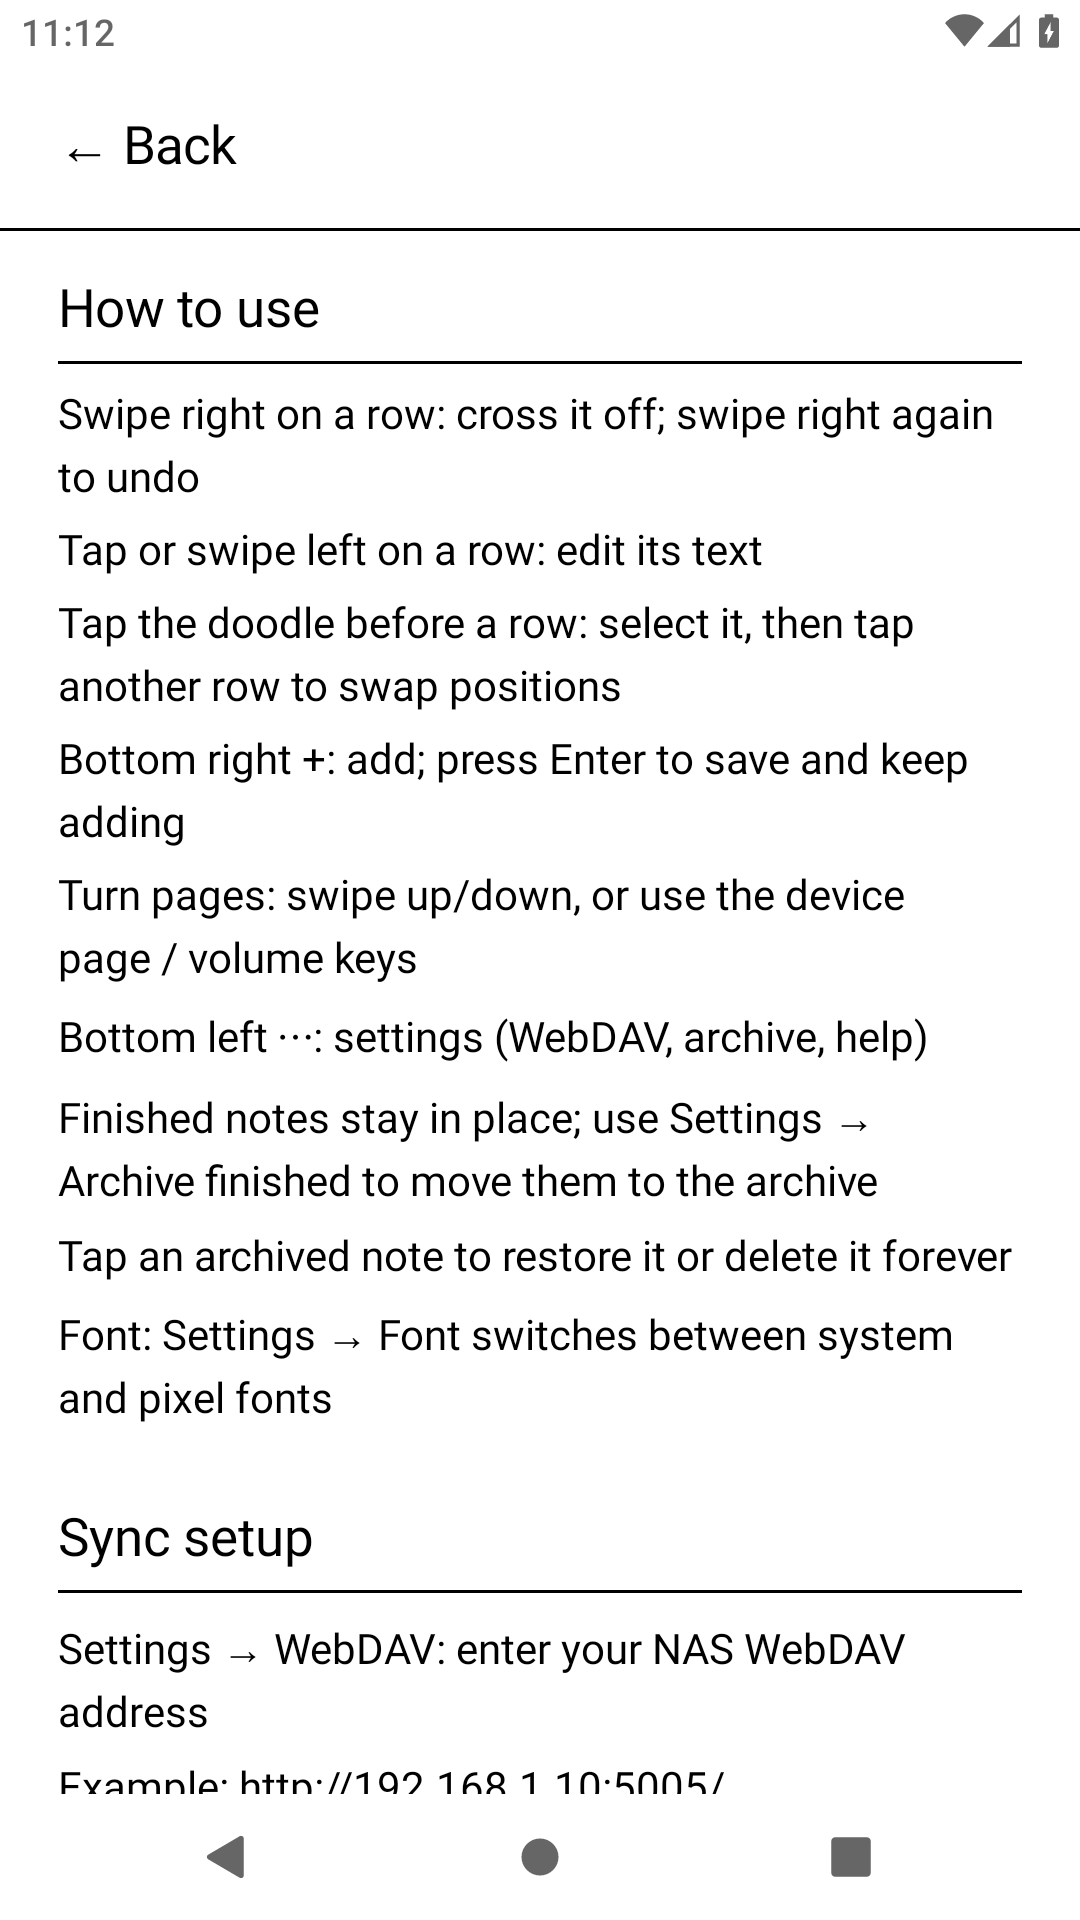
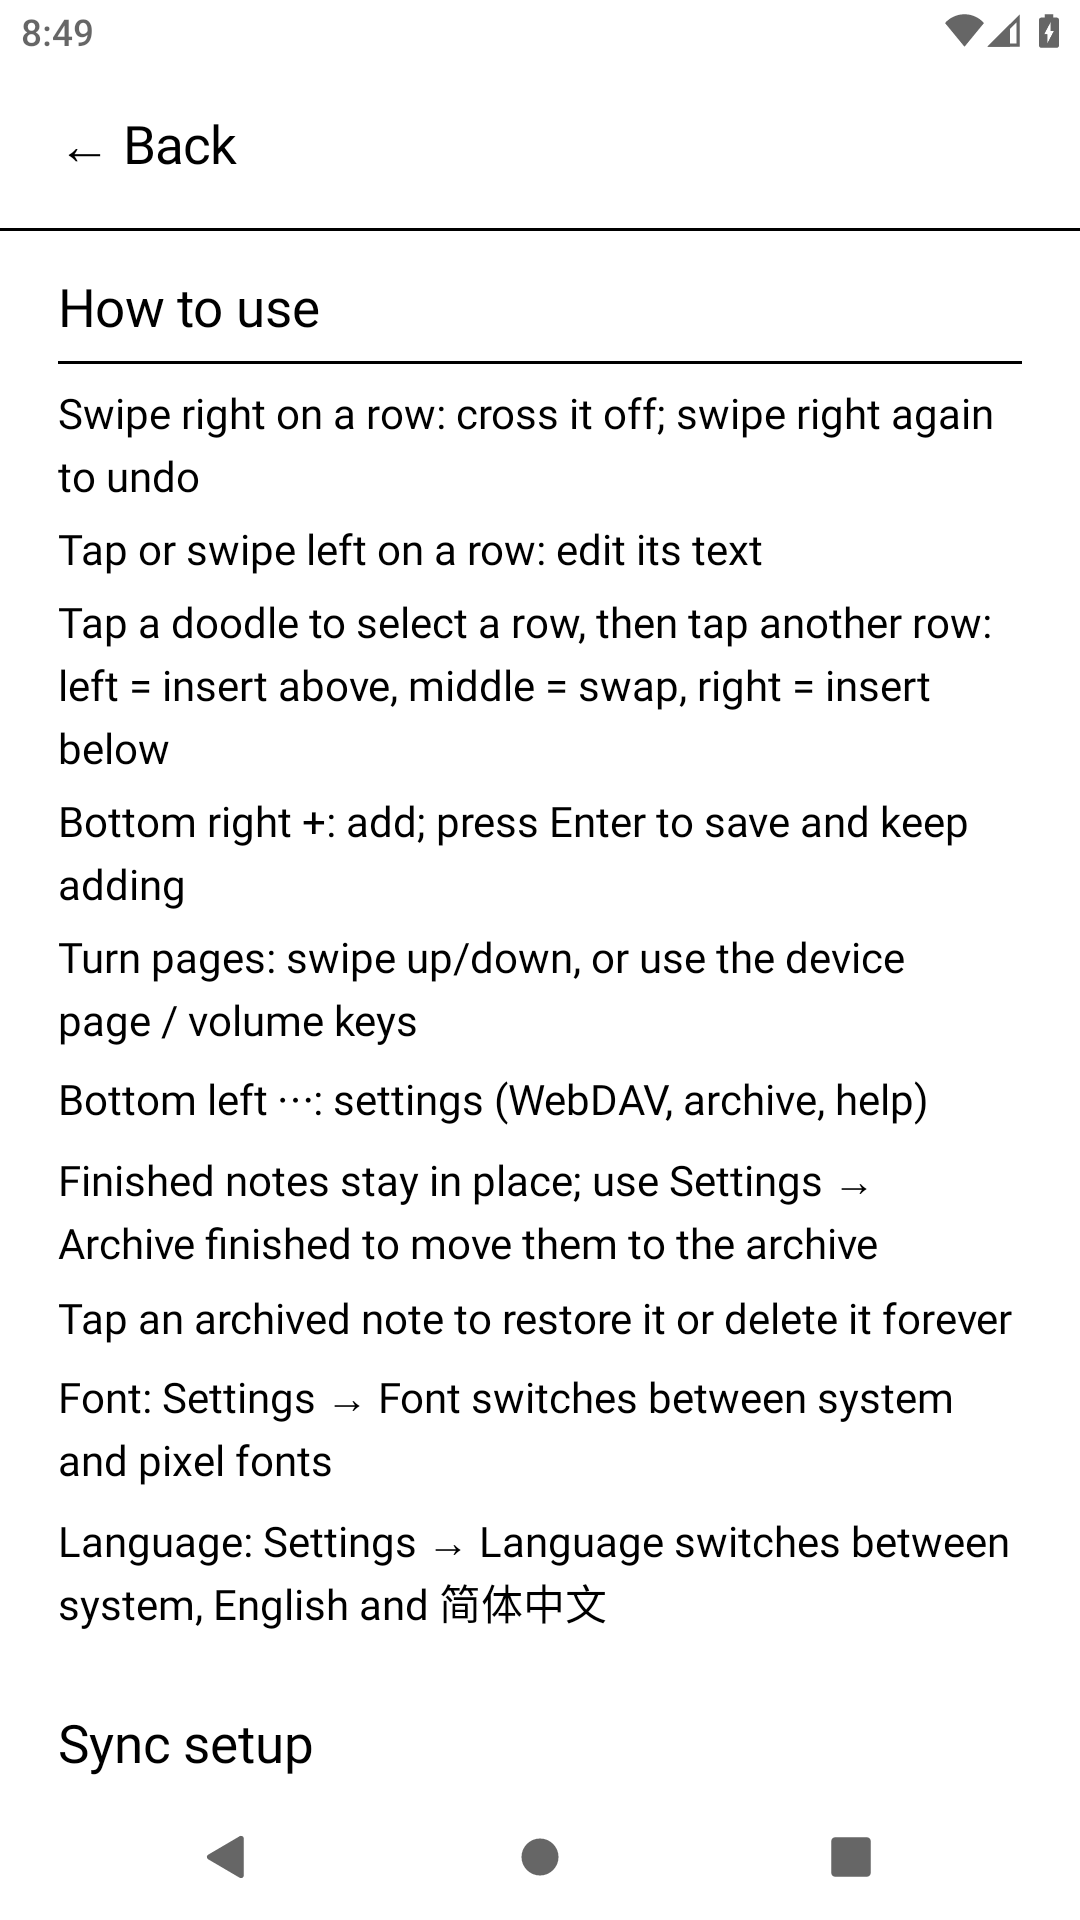
feat: 选中后按行三等分上插/交换/下插（v0.13.0）

diff --git a/android/app/src/main/java/com/einkmemo/app/MainScreen.kt b/android/app/src/main/java/com/einkmemo/app/MainScreen.kt
@@ -64,13 +64,18 @@ fun MainScreen(store: MemoStore) {
                             fontSp = fontSp,
                             showDivider = index < pageItems.lastIndex,
                             selected = store.swapId == item.id,
+                            selectionActive = store.swapId != null,
                             onTap = {
                                 store.dismissHint()
-                                store.tapRow(item.id)
+                                store.openEdit(item.id)
                             },
                             onIconTap = {
                                 store.dismissHint()
                                 store.tapDoodle(item.id)
+                            },
+                            onZoneTap = { zone ->
+                                store.dismissHint()
+                                store.tapRowZone(item.id, zone)
                             },
                             onSwipeRight = {
                                 store.dismissHint()
@@ -107,8 +112,10 @@ private fun NoteRow(
     fontSp: TextUnit,
     showDivider: Boolean,
     selected: Boolean,
+    selectionActive: Boolean,
     onTap: () -> Unit,
     onIconTap: () -> Unit,
+    onZoneTap: (DropZone) -> Unit,
     onSwipeRight: () -> Unit,
     onSwipeLeft: () -> Unit,
     onVerticalSwipe: (Float) -> Unit,
@@ -140,14 +147,18 @@ private fun NoteRow(
             .fillMaxWidth()
             .height(rowHeight)
             .background(if (selected) InkBlack else InkWhite)
-            .pointerInput(item.id, selected, iconHitPx) {
+            .pointerInput(item.id, selected, selectionActive, iconHitPx) {
                 detectRowGestures(
                     onTap = { pos ->
-                        if (pos.x <= iconHitPx) onIconTap() else onTap()
+                        when {
+                            selectionActive -> onZoneTap(zoneOf(pos.x, size.width))
+                            pos.x <= iconHitPx -> onIconTap()
+                            else -> onTap()
+                        }
                     },
-                    onSwipeRight = { if (!selected) onSwipeRight() },
-                    onSwipeLeft = { if (!selected) onSwipeLeft() },
-                    onVerticalSwipe = { dy -> if (!selected) onVerticalSwipe(dy) },
+                    onSwipeRight = { if (!selected && !selectionActive) onSwipeRight() },
+                    onSwipeLeft = { if (!selected && !selectionActive) onSwipeLeft() },
+                    onVerticalSwipe = { dy -> if (!selected && !selectionActive) onVerticalSwipe(dy) },
                 )
             }
     ) {
@@ -197,4 +208,10 @@ private fun NoteRow(
             )
         }
     }
+}
+
+private fun zoneOf(x: Float, width: Int): DropZone = when {
+    x < width / 3f -> DropZone.Above
+    x < width * 2f / 3f -> DropZone.Swap
+    else -> DropZone.Below
 }

diff --git a/android/app/src/main/java/com/einkmemo/app/MemoStore.kt b/android/app/src/main/java/com/einkmemo/app/MemoStore.kt
@@ -48,6 +48,8 @@ enum class FontMode { System, Pixel }
 
 enum class LanguageMode { System, English, Chinese }
 
+enum class DropZone { Above, Swap, Below }
+
 enum class EditMode { Add, Edit }
 
 data class Editing(val mode: EditMode, val id: String? = null)
@@ -218,28 +220,39 @@ class MemoStore(context: Context) {
         swapId = null
     }
 
-    /** 点条目前的像素小图：选中 / 再点取消 / 已选中时点别的条目则交换 */
+    /** 点条目前的像素小图：选中 / 再点取消 */
     fun tapDoodle(id: String) {
-        val current = swapId
-        when {
-            current == null -> swapId = id
-            current == id -> swapId = null
-            else -> {
-                swapItems(current, id)
-                swapId = null
-            }
-        }
+        swapId = if (swapId == id) null else id
     }
 
-    /** 点条目正文：未选中时编辑；选中时点另一条交换位置 */
-    fun tapRow(id: String) {
-        val current = swapId
-        if (current == null) {
-            openEdit(id)
-        } else {
-            if (current != id) swapItems(current, id)
+    /** 选中后点另一条：左侧三分之一上插、中间交换、右侧三分之一下插 */
+    fun tapRowZone(targetId: String, zone: DropZone) {
+        val moving = swapId ?: return
+        if (moving == targetId) {
             swapId = null
+            return
         }
+        when (zone) {
+            DropZone.Swap -> swapItems(moving, targetId)
+            DropZone.Above -> moveItem(moving, targetId, insertAfter = false)
+            DropZone.Below -> moveItem(moving, targetId, insertAfter = true)
+        }
+        swapId = null
+    }
+
+    private fun moveItem(movingId: String, targetId: String, insertAfter: Boolean) {
+        val from = items.indexOfFirst { it.id == movingId }
+        val target = items.indexOfFirst { it.id == targetId }
+        if (from < 0 || target < 0 || from == target) return
+        val now = System.currentTimeMillis()
+        val list = items.toMutableList()
+        val moving = list.removeAt(from)
+        var index = if (insertAfter) target + 1 else target
+        if (from < index) index -= 1
+        index = index.coerceIn(0, list.size)
+        list.add(index, moving.copy(updatedAt = now))
+        items = list
+        bumpRevision()
     }
 
     private fun swapItems(aId: String, bId: String) {

diff --git a/android/app/src/main/java/com/einkmemo/app/Components.kt b/android/app/src/main/java/com/einkmemo/app/Components.kt
@@ -493,6 +493,7 @@ fun HintOverlay() {
             InkText(stringResource(R.string.hint_swipe_off), 20.sp)
             InkText(stringResource(R.string.hint_tap_edit), 20.sp)
             InkText(stringResource(R.string.hint_swap), 20.sp)
+            InkText(stringResource(R.string.hint_zone), 20.sp)
             InkText(stringResource(R.string.hint_turn_page), 20.sp)
         }
     }

diff --git a/README.md b/README.md
@@ -13,7 +13,7 @@ EinkMemo is a tiny notes / to-do app designed for e-ink readers and any Android 
 - **Strictly 1-bit**: black and white only, one grey for crossed-off text. No shadows, ripples or transitions — crisp and refresh-friendly on e-ink.
 - **Fits any screen**: rows per page adapt to resolution and orientation (3–10 rows); portrait and landscape both work.
 - **Fast to use**: swipe right to cross off, tap or swipe left to edit, `+` for continuous adding.
-- **Playful detail**: a tiny pixel doodle before every note. Tap the doodle to select a row, then tap another row to swap their positions.
+- **Playful detail**: a tiny pixel doodle before every note. Tap a doodle to select a row, then tap another row: the left third inserts above, the middle swaps, and the right third inserts below.
 - **Archive**: finished notes stay in place until you archive them from Settings; restore or delete forever from the archive.
 - **Manual WebDAV sync**: one `notes.json` on your own NAS. If both sides changed, choose which copy to keep.
 - **Keystore-protected credentials**: WebDAV username and password are encrypted with AES-256-GCM via the Android Keystore.
@@ -37,7 +37,7 @@ The APK is debug-signed for sideloading and needs no Google services.
 | Swipe right on a row | Cross off / undo |
 | Tap or swipe left on a row | Edit its text |
 | Bottom-right `+` | Add a note (Enter keeps adding) |
-| Tap the doodle before a row | Select it, then tap another row to swap |
+| Tap a doodle | Select a row; tap another row's left/middle/right third to insert above / swap / insert below |
 | Swipe up / down, page or volume keys | Turn page |
 | Bottom-left `⋯` | Settings (WebDAV, archive, fonts, help) |
 

diff --git a/docs/releases/v0.13.0.md b/docs/releases/v0.13.0.md
@@ -1,0 +1,23 @@
+## EinkMemo v0.13.0
+
+### New
+
+- **Three-zone drop on rows**: after tapping a doodle to select a note, tapping another row's area now works by thirds:
+  - left third: insert the selected note **above** that row
+  - middle third: **swap** the two rows
+  - right third: insert the selected note **below** that row
+- Tapping the selected row itself cancels the selection, as before.
+- First-launch hint and Help now explain the three zones.
+
+### Included
+
+- 1-bit minimal list, manual WebDAV sync, archive, system/pixel fonts
+- Language switch (follow system / English / 简体中文)
+- Responsive 3–10 rows, portrait and landscape; keyboard scales the page; settings pages scroll
+
+### Install
+
+1. Download `EinkMemo-0.13.0-debug.apk` below.
+2. Install it over EinkMemo 0.12.1 (same package and signing key, data preserved).
+
+Debug-signed for sideloading. Source, docs and build instructions in the repository.

diff --git a/docs/SPEC.md b/docs/SPEC.md
@@ -31,7 +31,7 @@
 ## 4. 交互规范
 - 右滑（≥36px 水平）切换完成 / 未完成；再滑一次即撤销
 - 左滑或点击行 = 编辑；底部单行输入条，回车保存、Esc / × 取消
-- 点条目前的像素小图 = 选中该条（整行反白，底栏提示「点另一条交换」）；再点任意一条交换两条位置；再点小图或返回键取消
+- 点条目前的像素小图 = 选中该条（整行反白，底栏提示「点另一条调整位置」）；把另一条水平三等分：点左三分之一向上插入、点中间交换、点右三分之一下插；再点小图或返回键取消
 - 新增：「+」→ 输入条；回车保存并保持输入状态；追加到列表末尾并自动跳到末页
 - 无复选框、无删除手势、无撤销提示条、无反色闪烁、无跟手动画
 - 上下滑（≥48px 垂直）= 翻页；桌面浏览器用 PageUp / PageDown 或 ↑ / ↓ 模拟实体键
